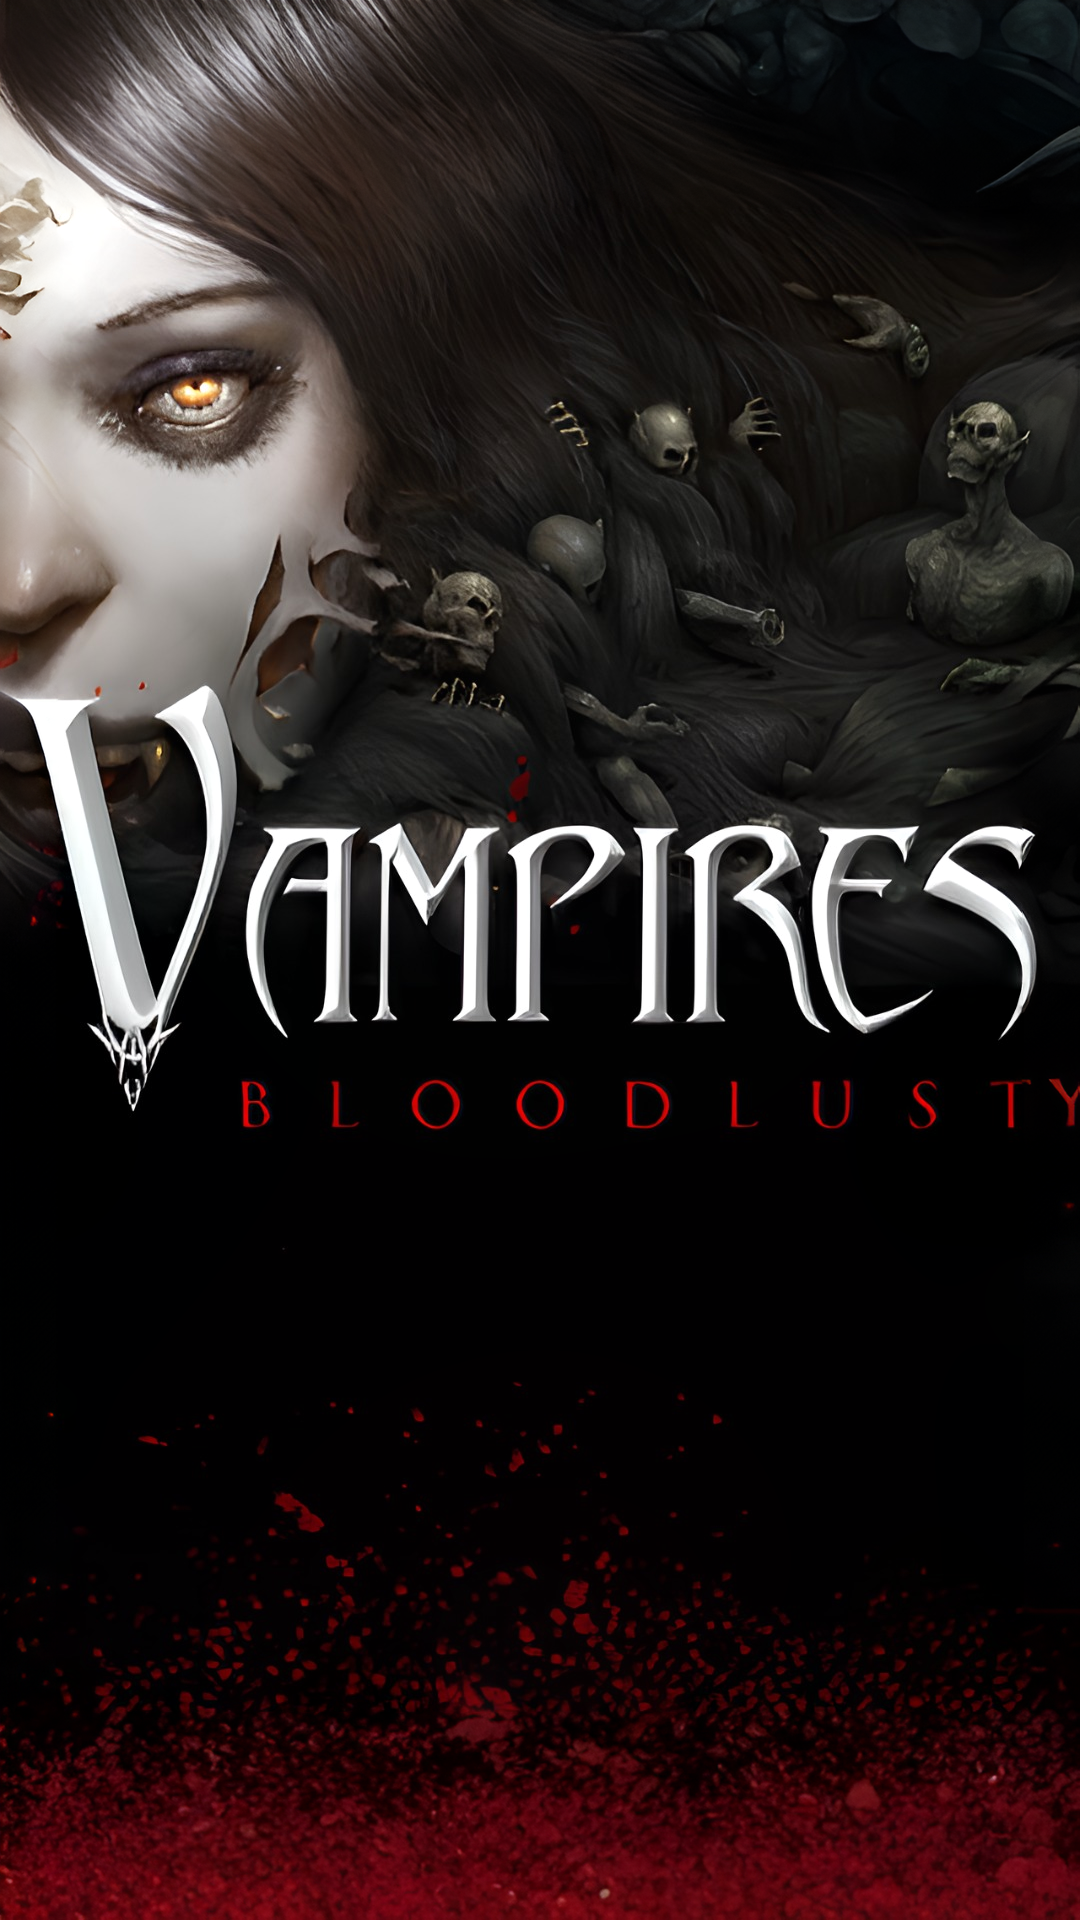
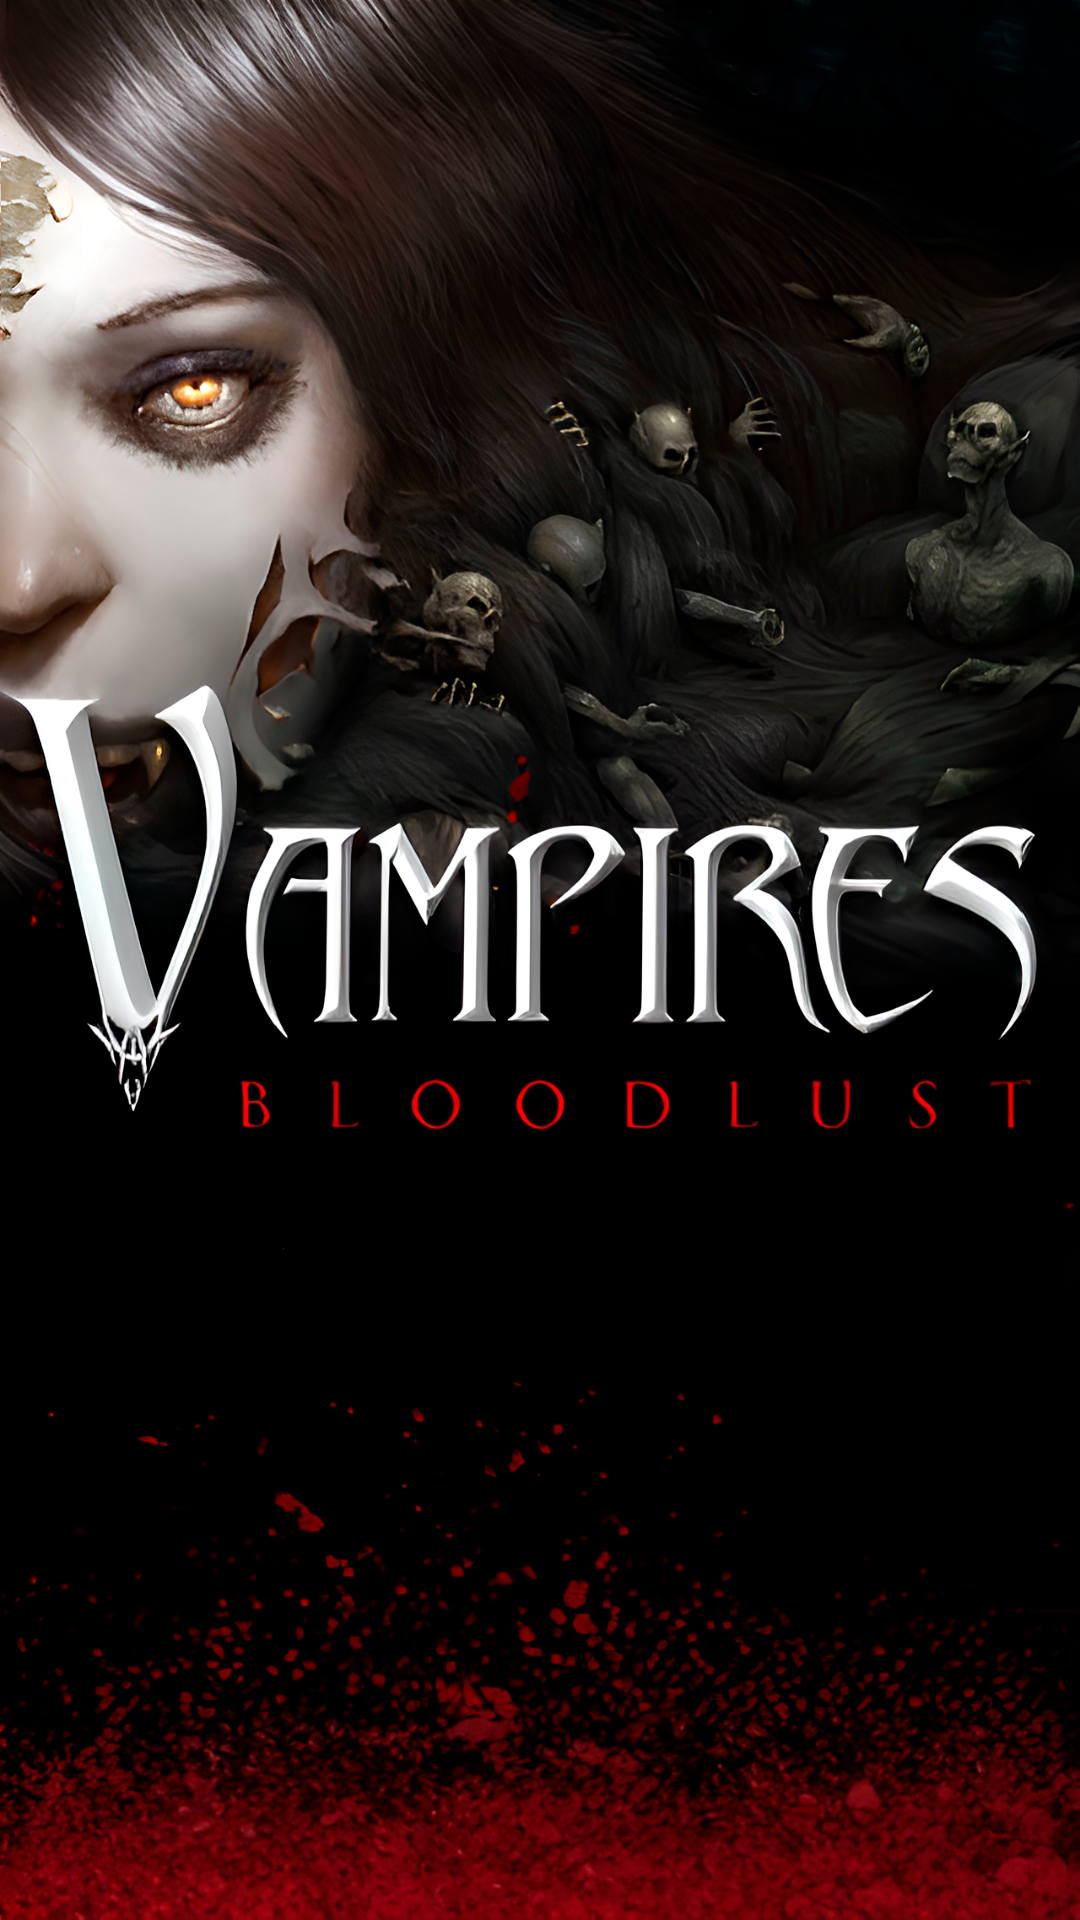
feat: add google font.

diff --git a/public/index.html b/public/index.html
@@ -1,27 +1,27 @@
 <!DOCTYPE html>
 <html lang="en">
-  <head>
-    <meta charset="utf-8" />
-    <!-- <link rel="icon" sizes="96x96"  type="image/png" href="%PUBLIC_URL%/favicon/favicon_96.png"/> -->
-    <!-- <link rel="icon" type="image/svg+xml" href="%PUBLIC_URL%/favicon/favicon.svg" /> -->
-    <!-- <link rel="shortcut icon" href="%PUBLIC_URL%/favicon/favicon_64.ico" /> -->
-    <link rel="apple-touch-icon" sizes="180x180" href="%PUBLIC_URL%/ios/AppIcon@3x.png" />
 
-    <link rel="icon" href="%PUBLIC_URL%/favicon.ico" />
-    
-    <meta name="viewport" content="width=device-width, initial-scale=1" />
-    <meta name="theme-color" content="#000000" />
-    <meta
-      name="description"
-      content="Web site created using create-react-app"
-    />
-    <link rel="apple-touch-icon" href="%PUBLIC_URL%/logo192.png" />
-    <!--
+<head>
+  <meta charset="utf-8" />
+  <!-- <link rel="icon" sizes="96x96"  type="image/png" href="%PUBLIC_URL%/favicon/favicon_96.png"/> -->
+  <!-- <link rel="icon" type="image/svg+xml" href="%PUBLIC_URL%/favicon/favicon.svg" /> -->
+  <!-- <link rel="shortcut icon" href="%PUBLIC_URL%/favicon/favicon_64.ico" /> -->
+  <link rel="apple-touch-icon" sizes="180x180" href="%PUBLIC_URL%/ios/AppIcon@3x.png" />
+
+  <link rel="icon" href="%PUBLIC_URL%/favicon.ico" />
+  <!-- FONTS -->
+  <link href="https://fonts.googleapis.com/css2?family=Cinzel:wght@400..900&display=swap" rel="stylesheet">
+  
+  <meta name="viewport" content="width=device-width, initial-scale=1" />
+  <meta name="theme-color" content="#000000" />
+  <meta name="description" content="Web site created using create-react-app" />
+  <link rel="apple-touch-icon" href="%PUBLIC_URL%/logo192.png" />
+  <!--
       manifest.json provides metadata used when your web app is installed on a
       user's mobile device or desktop. See https://developers.google.com/web/fundamentals/web-app-manifest/
     -->
-    <link rel="manifest" href="%PUBLIC_URL%/manifest.json" />
-    <!--
+  <link rel="manifest" href="%PUBLIC_URL%/manifest.json" />
+  <!--
       Notice the use of %PUBLIC_URL% in the tags above.
       It will be replaced with the URL of the `public` folder during the build.
       Only files inside the `public` folder can be referenced from the HTML.
@@ -30,12 +30,13 @@
       work correctly both with client-side routing and a non-root public URL.
       Learn how to configure a non-root public URL by running `npm run build`.
     -->
-    <title>React App</title>
-  </head>
-  <body>
-    <noscript>You need to enable JavaScript to run this app.</noscript>
-    <div id="root"></div>
-    <!--
+  <title>React App</title>
+</head>
+
+<body>
+  <noscript>You need to enable JavaScript to run this app.</noscript>
+  <div id="root"></div>
+  <!--
       This HTML file is a template.
       If you open it directly in the browser, you will see an empty page.
 
@@ -45,5 +46,6 @@
       To begin the development, run `npm start` or `yarn start`.
       To create a production bundle, use `npm run build` or `yarn build`.
     -->
-  </body>
+</body>
+
 </html>

diff --git a/src/components/SplashScreen/SplashScreen.js b/src/components/SplashScreen/SplashScreen.js
@@ -13,7 +13,7 @@ const SplashScreen = ({ onFinish }) => {
         // LLAMA A LA FUNCION 'onFinish' ASOCIADA AL METODO handleSplashFinish DEL App.js
         onFinish();
       }
-    }, 30000);
+    }, 4500);
     // CLEAN THE TIMER WHEN THE COMPONENT IS DISASSEMBLED
     // LIMPIA EL TEMPORIZADOR CUANDO EL COMPONENTE SE DESMONTA
     return () => clearTimeout(timer);
